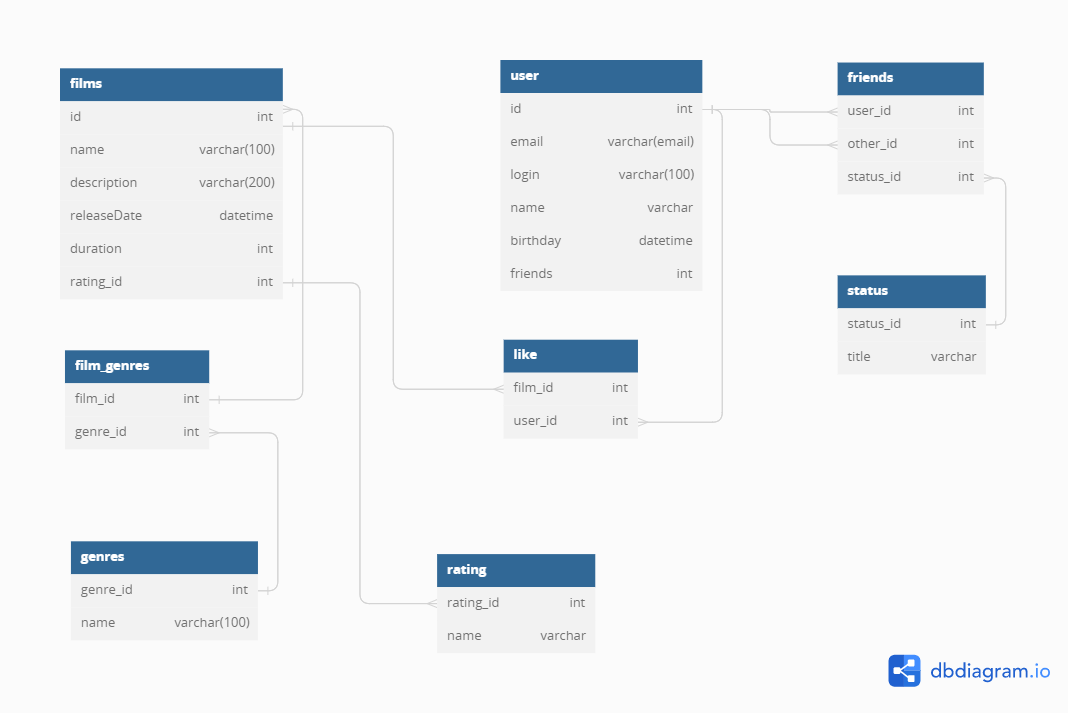
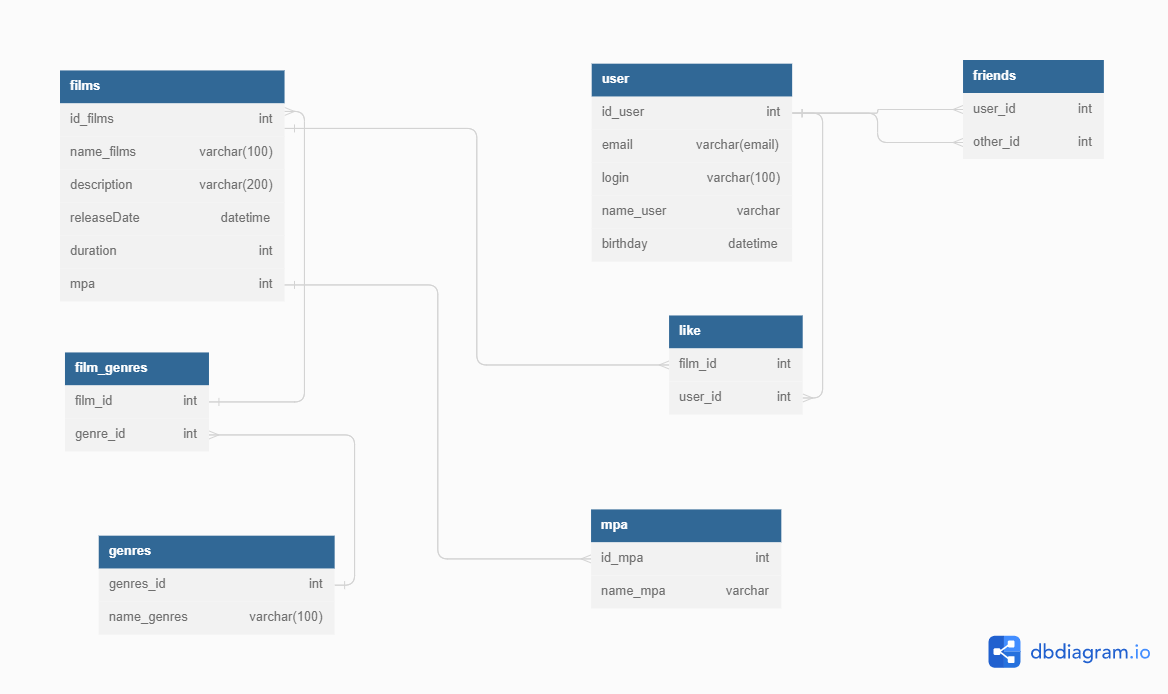
refactor: исправлена схема БД в файле readme

diff --git a/src/main/java/ru/yandex/practicum/filmorate/storage/film/FilmDbStorage.java b/src/main/java/ru/yandex/practicum/filmorate/storage/film/FilmDbStorage.java
@@ -13,6 +13,7 @@ import ru.yandex.practicum.filmorate.exception.EntityNotFoundException;
 import ru.yandex.practicum.filmorate.model.Film;
 import ru.yandex.practicum.filmorate.model.Genre;
 import ru.yandex.practicum.filmorate.model.Mpa;
+import ru.yandex.practicum.filmorate.storage.mpa.MpaStorage;
 import ru.yandex.practicum.filmorate.storage.user.UserStorage;
 
 import java.sql.Date;
@@ -31,6 +32,7 @@ import java.util.Optional;
 public class FilmDbStorage implements FilmStorage {
     private final JdbcTemplate jdbcTemplate;
     private final UserStorage userStorage;
+    private final MpaStorage mpaStorage;
 
     @Override
     public Optional<Film> getFilmById(Integer id) {
@@ -96,8 +98,8 @@ public class FilmDbStorage implements FilmStorage {
 
     private void genreOfFilm(Film film) {
         String sql = "SELECT* FROM FILM_GENRES fg " +
-        "LEFT JOIN GENRES g ON fg.GENRE_ID  = g.ID_GENRES "+
-        "WHERE fg.FILM_ID = ? ORDER BY g.ID_GENRES ASC ";
+                "LEFT JOIN GENRES g ON fg.GENRE_ID  = g.ID_GENRES " +
+                "WHERE fg.FILM_ID = ?";
         try {
             jdbcTemplate.query(sql, (rs, rowNum) -> makeGenre(rs), film.getId()).forEach(film::addGenre);
         } catch (DataAccessException e) {
@@ -109,7 +111,7 @@ public class FilmDbStorage implements FilmStorage {
         try {
             return new Genre(rs.getInt("ID_GENRES"), rs.getString("NAME_GENRES"));
         } catch (SQLException e) {
-            throw new DataBaseException("Ошибка получения ID USER Like из базы данных");
+            throw new DataBaseException("Ошибка получения ID_GENRES из базы данных");
         }
     }
 
@@ -183,6 +185,7 @@ public class FilmDbStorage implements FilmStorage {
 
         film.setId(Objects.requireNonNull(keyHolder.getKey()).intValue());
         log.info("Фильм {} добавлен в БД", film);
+        film.getMpa().setName(mpaStorage.getMpaById(film.getMpa().getId()).get().getName());
         if (film.getGenres().size() != 0) {
             addGenre(film);
         }
@@ -208,7 +211,7 @@ public class FilmDbStorage implements FilmStorage {
         }
         addGenre(film);
         log.info("Обновление данных фильма в БД {}", film);
-        film.getGenres().clear();
+        film.getMpa().setName(mpaStorage.getMpaById(film.getMpa().getId()).get().getName());
 
         return getFilmById(id);
     }
@@ -221,17 +224,20 @@ public class FilmDbStorage implements FilmStorage {
             throw new DataBaseException("Ошибка удаления Like из БД");
         }
 
-        for (Genre genre : film.getGenres()) {
-            String sqlQueryGenre = "INSERT INTO FILM_GENRES(FILM_ID, GENRE_ID) VALUES (?, ?)";
-            try {
-                jdbcTemplate.update(sqlQueryGenre
-                        , film.getId()
-                        , genre.getId()
-                );
-            } catch (DataAccessException e) {
-                throw new DataBaseException("Ошибка обновления жанра Film в БД");
-            }
-        }
+        film.getGenres()
+                .forEach(genre -> {
+                    String sqlQueryGenre = "INSERT INTO FILM_GENRES(FILM_ID, GENRE_ID) VALUES (?, ?)";
+                    try {
+                        jdbcTemplate.update(sqlQueryGenre
+                                , film.getId()
+                                , genre.getId()
+                        );
+                    } catch (DataAccessException e) {
+                        throw new DataBaseException("Ошибка обновления жанра Film в БД");
+                    }
+                });
+        film.getGenres().clear();
+        genreOfFilm(film);
         log.info("Обновление жанра фильма {}", film);
     }
 }

diff --git a/README.md b/README.md
@@ -18,12 +18,11 @@
 
 SELECT
 f.name,  
-f.description,  
-COUNT(l.user_id) AS quantity_like  
+f.description,   
 FROM film AS f  
 LEFT OUTER JOIN like AS l ON  f.film_id = l.film_id  
-GROUP BY f.name  
-ORDER BY l.film_id DESC  
+GROUP BY f.film_id
+ORDER BY COUNT(l.user_id) AS quantity_like   
 LIMIT 10;
 
 #### Получение списка всех пользователей
